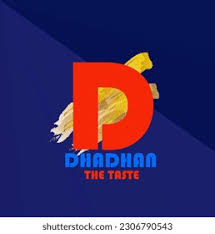
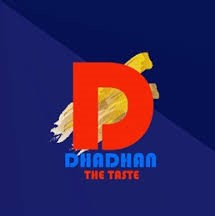
placement page dynamic

diff --git a/assets/css/style.css b/assets/css/style.css
@@ -1200,7 +1200,10 @@ margin-left: 30px;
 /* ----------------------------------------------------------- */
 /*  placement
 /* ----------------------------------------------------------- */
-.logos{
+.logos img{
+  width: 20% !important;
   aspect-ratio: 3/2;
-
+  object-fit: contain;
+  /* mix-blend-mode: color-burn; */
+  padding: 30px;
 }

diff --git a/Admin/placement.php b/Admin/placement.php
@@ -111,7 +111,7 @@ if ($form === NULL) {
                     <div class="row g-4">
                         <div class="">
                             <div class="bg-light rounded h-100 p-4">
-                                <h6 class="mb-4">Life-Image</h6>
+                                <h6 class="mb-4">Placement</h6>
                                 <div class="col-sm-12 mb-2">
                                     <button type="button" class="btn btn-primary" data-bs-toggle="modal"
                                         data-bs-target="#modal-bs-primary">
@@ -122,7 +122,7 @@ if ($form === NULL) {
                                     <thead>
                                         <tr>
                                             <th scope="col" class="text-center">Slno</th>
-                                            <th scope="col" class="text-center">Image</th>
+                                            <th scope="col" class="text-center">placement</th>
                                             <th scope="col" class="text-center">Date Of Upload</th>
                                             <th scope="col" class="text-center">manage</th>
                                         </tr>
@@ -130,7 +130,7 @@ if ($form === NULL) {
                                     <tbody>
 
                                         <?php include 'db.php';
-                                        $sql = "SELECT * FROM mitm_life_image ORDER BY id DESC";
+                                        $sql = "SELECT * FROM mitm_placement ORDER BY id DESC";
                                         $result = $conn->query($sql);
                                         $i = 1;
                                         while ($row = $result->fetch_assoc()) { ?>
@@ -144,10 +144,10 @@ if ($form === NULL) {
                                                 <td class=text-center><?php $status = $row['status'];
                                                 $status = $row['status'];
                                                 $idm = $row['id'];
-                                                $tb = 'mitm_life_image';
+                                                $tb = 'mitm_placement';
                                                 $tbc = 'id';
                                                 $tbc1 = 'status';
-                                                $returnpage = 'life-image.php';
+                                                $returnpage = 'placement.php';
 
                                                 if ($status == 1) {
                                                     echo "<a href='active.php?status=$idm&tb=$tb&tbc=$tbc&tbc1=$tbc1&returnpage=$returnpage' class='btn btn-success' onclick='return confirmAction(\"active\", $idm, \"$tb\", \"$tbc\", \"$tbc1\", \"$returnpage\")'>
@@ -158,7 +158,7 @@ if ($form === NULL) {
                                                 }
                                                 ?>
                                                     <a
-                                                        onclick="confirmDelete(<?php echo $row['id']; ?>, tb='mitm_life_image', tbc='id', returnpage='life-image.php');">
+                                                        onclick="confirmDelete(<?php echo $row['id']; ?>, tb='mitm_placement', tbc='id', returnpage='placement.php');">
                                                         <i class="fas fa-trash-alt btn btn-danger"></i>
                                                     </a>
                                                 </td>
@@ -168,7 +168,7 @@ if ($form === NULL) {
                                     <tfoot>
                                         <tr>
                                             <th scope="col" class="text-center">Slno</th>
-                                            <th scope="col" class="text-center">Image</th>
+                                            <th scope="col" class="text-center">placement</th>
                                             <th scope="col" class="text-center">Date Of Upload</th>
                                             <th scope="col" class="text-center">manage</th>
                                         </tr>
@@ -206,10 +206,10 @@ if ($form === NULL) {
                         //     alert('image not uploaded');
                         //     </script>";
                     }
-                    $sql = "INSERT INTO mitm_life_image(image,status) 
+                    $sql = "INSERT INTO mitm_placement(image,status) 
              VALUES('$new_file_name','1')";
                     if ($conn->query($sql) === true) {
-                        echo "<script>window.location.href='life-image.php';</script>";
+                        echo "<script>window.location.href='placement.php';</script>";
                     } else {
                         $conn->error;
                     }
@@ -229,7 +229,7 @@ if ($form === NULL) {
                                 <div class="modal-body">
                                     <div class="card-body">
                                         <div class="form-group">
-                                            <label for="exampleInputimage">Select Image</label>
+                                            <label for="exampleInputimage">Placement</label>
                                             <input type="file" id="exampleInputimage" name="image" required>
                                         </div>
                                     </div>

diff --git a/placementcompany.php b/placementcompany.php
@@ -33,6 +33,7 @@
 	<link rel="stylesheet" href="https://maxcdn.bootstrapcdn.com/font-awesome/4.7.0/css/font-awesome.min.css">
 
 	<link rel="stylesheet" type="text/css" href="assets/css/style.css?v=1.6">
+	<link href="assets/css/style.css?v=1.4" rel="stylesheet">
 
 	<link rel="stylesheet" href="https://cdnjs.cloudflare.com/ajax/libs/remixicon/3.5.0/remixicon.css">
 
@@ -400,13 +401,20 @@
 	<!--Desktop view-->
 	<div class="d-none d-lg-block">
 		<div class="container">
-			<div class="logos">
-				<h4 class="text-uppercase mission-head">Placemnt Companies</h4>
-				<div class="row">
-					<div class="col-lg-3 comp-img ">
-						<img src="assets/img/comp1.png" alt="">
+			<h4 class="text-uppercase mission-head">Placemnt Companies</h4>
+			<div class="row">
+				<div class="logos">
+					<div class="comp-img ">
+						<?php include 'Admin/db.php';
+						$sql = "SELECT * FROM `mitm_placement`where status = 1";
+						$Sql_query = mysqli_query($conn, $sql);
+						$All_fname = mysqli_fetch_all($Sql_query, MYSQLI_ASSOC);
+						foreach ($All_fname as $row) {
+							?>
+							<img src="Admin/upload/<?php echo $row['image']; ?>" alt="">
+						<?php } ?>
 					</div>
-					<div class="col-lg-3 comp-img ">
+					<!-- <div class="col-lg-3 comp-img ">
 						<img src="assets/img/comp2.jpeg" alt="">
 					</div>
 					<div class="col-lg-3 comp-img ">
@@ -424,9 +432,9 @@
 					<div class="col-lg-3 comp-img ">
 						<img src="assets/img/comp7.jpeg" alt="">
 					</div>
-					<div class="col-lg-3 comp-img ">
-						<img src="assets/img/comp8.png" alt="">
-					</div>
+					<div class="col-lg-3 comp-img">
+						<img src="assets/img/comp8.1.png" alt="">
+					</div> -->
 				</div>
 			</div>
 		</div>

diff --git a/Admin/notice.php b/Admin/notice.php
@@ -85,6 +85,7 @@ if ($form === NULL) {
                         <a href="news-event.php" class="nav-item nav-link"><i class="bi bi-newspaper me-2"></i> News and
                             Event</a>
                         <a href="notice.php" class="nav-item nav-link active"><i class="bi bi-bell me-2"></i>Notice</a>
+                        <a href="placement.php" class="nav-item nav-link"><i class="bi bi-bell me-2"></i>Placement</a>
                         <a href="logout.php" class="nav-item nav-link"><i
                                 class="far fa-share-square nav-icon"></i>Logout</a>
                     </div>

diff --git a/Admin/contact.php b/Admin/contact.php
@@ -113,6 +113,7 @@ if ($form === NULL) {
                         <a href="news-event.php" class="nav-item nav-link"><i class="bi bi-newspaper me-2"></i>News and
                             Event</a>
                         <a href="notice.php" class="nav-item nav-link"><i class="bi bi-bell me-2"></i>Notice</a>
+                        <a href="placement.php" class="nav-item nav-link"><i class="bi bi-bell me-2"></i>Placement</a>
                         <a href="logout.php" class="nav-item nav-link"><i
                                 class="far fa-share-square nav-icon"></i>Logout</a>
                     </div>

diff --git a/Admin/life-video.php b/Admin/life-video.php
@@ -85,6 +85,7 @@ if ($form === NULL) {
                         <a href="news-event.php" class="nav-item nav-link"><i class="bi bi-newspaper me-2"></i>News and
                             Event</a>
                         <a href="notice.php" class="nav-item nav-link"><i class="bi bi-bell me-2"></i>Notice</a>
+                        <a href="placement.php" class="nav-item nav-link"><i class="bi bi-bell me-2"></i>Placement</a>
                         <a href="logout.php" class="nav-item nav-link"><i
                                 class="far fa-share-square nav-icon"></i>Logout</a>
                     </div>

diff --git a/Admin/index.php b/Admin/index.php
@@ -73,6 +73,7 @@
                     </div>
                     <a href="news-event.php" class="nav-item nav-link"><i class="fa fa-th me-2"></i>News and Event</a>
                     <a href="notice.php" class="nav-item nav-link"><i class="fa fa-th me-2"></i>Notice</a>
+                    <a href="placement.php" class="nav-item nav-link"><i class="bi bi-bell me-2"></i>Placement</a>
                     <a href="logout.php" class="nav-item nav-link"><i class="fa fa-th me-2"></i>Logout</a>
                 </div>
             </nav>

diff --git a/Admin/news-event.php b/Admin/news-event.php
@@ -86,6 +86,7 @@ if ($form === NULL) {
                             and
                             Event</a>
                         <a href="notice.php" class="nav-item nav-link"><i class="bi bi-bell me-2"></i> Notice</a>
+                        <a href="placement.php" class="nav-item nav-link"><i class="bi bi-bell me-2"></i>Placement</a>
                         <a href="logout.php" class="nav-item nav-link"><i
                                 class="far fa-share-square nav-icon"></i>Logout</a>
                     </div>

diff --git a/Admin/enquiry.php b/Admin/enquiry.php
@@ -90,6 +90,7 @@ if ($form === NULL) {
                         <a href="notice.php" class="nav-item nav-link">
                             <i class="bi bi-bell me-2"></i> Notice
                         </a>
+                        <a href="placement.php" class="nav-item nav-link"><i class="bi bi-bell me-2"></i>Placement</a>
                         <a href="logout.php" class="nav-item nav-link"><i
                                 class="far fa-share-square nav-icon"></i>Logout</a>
                     </div>
